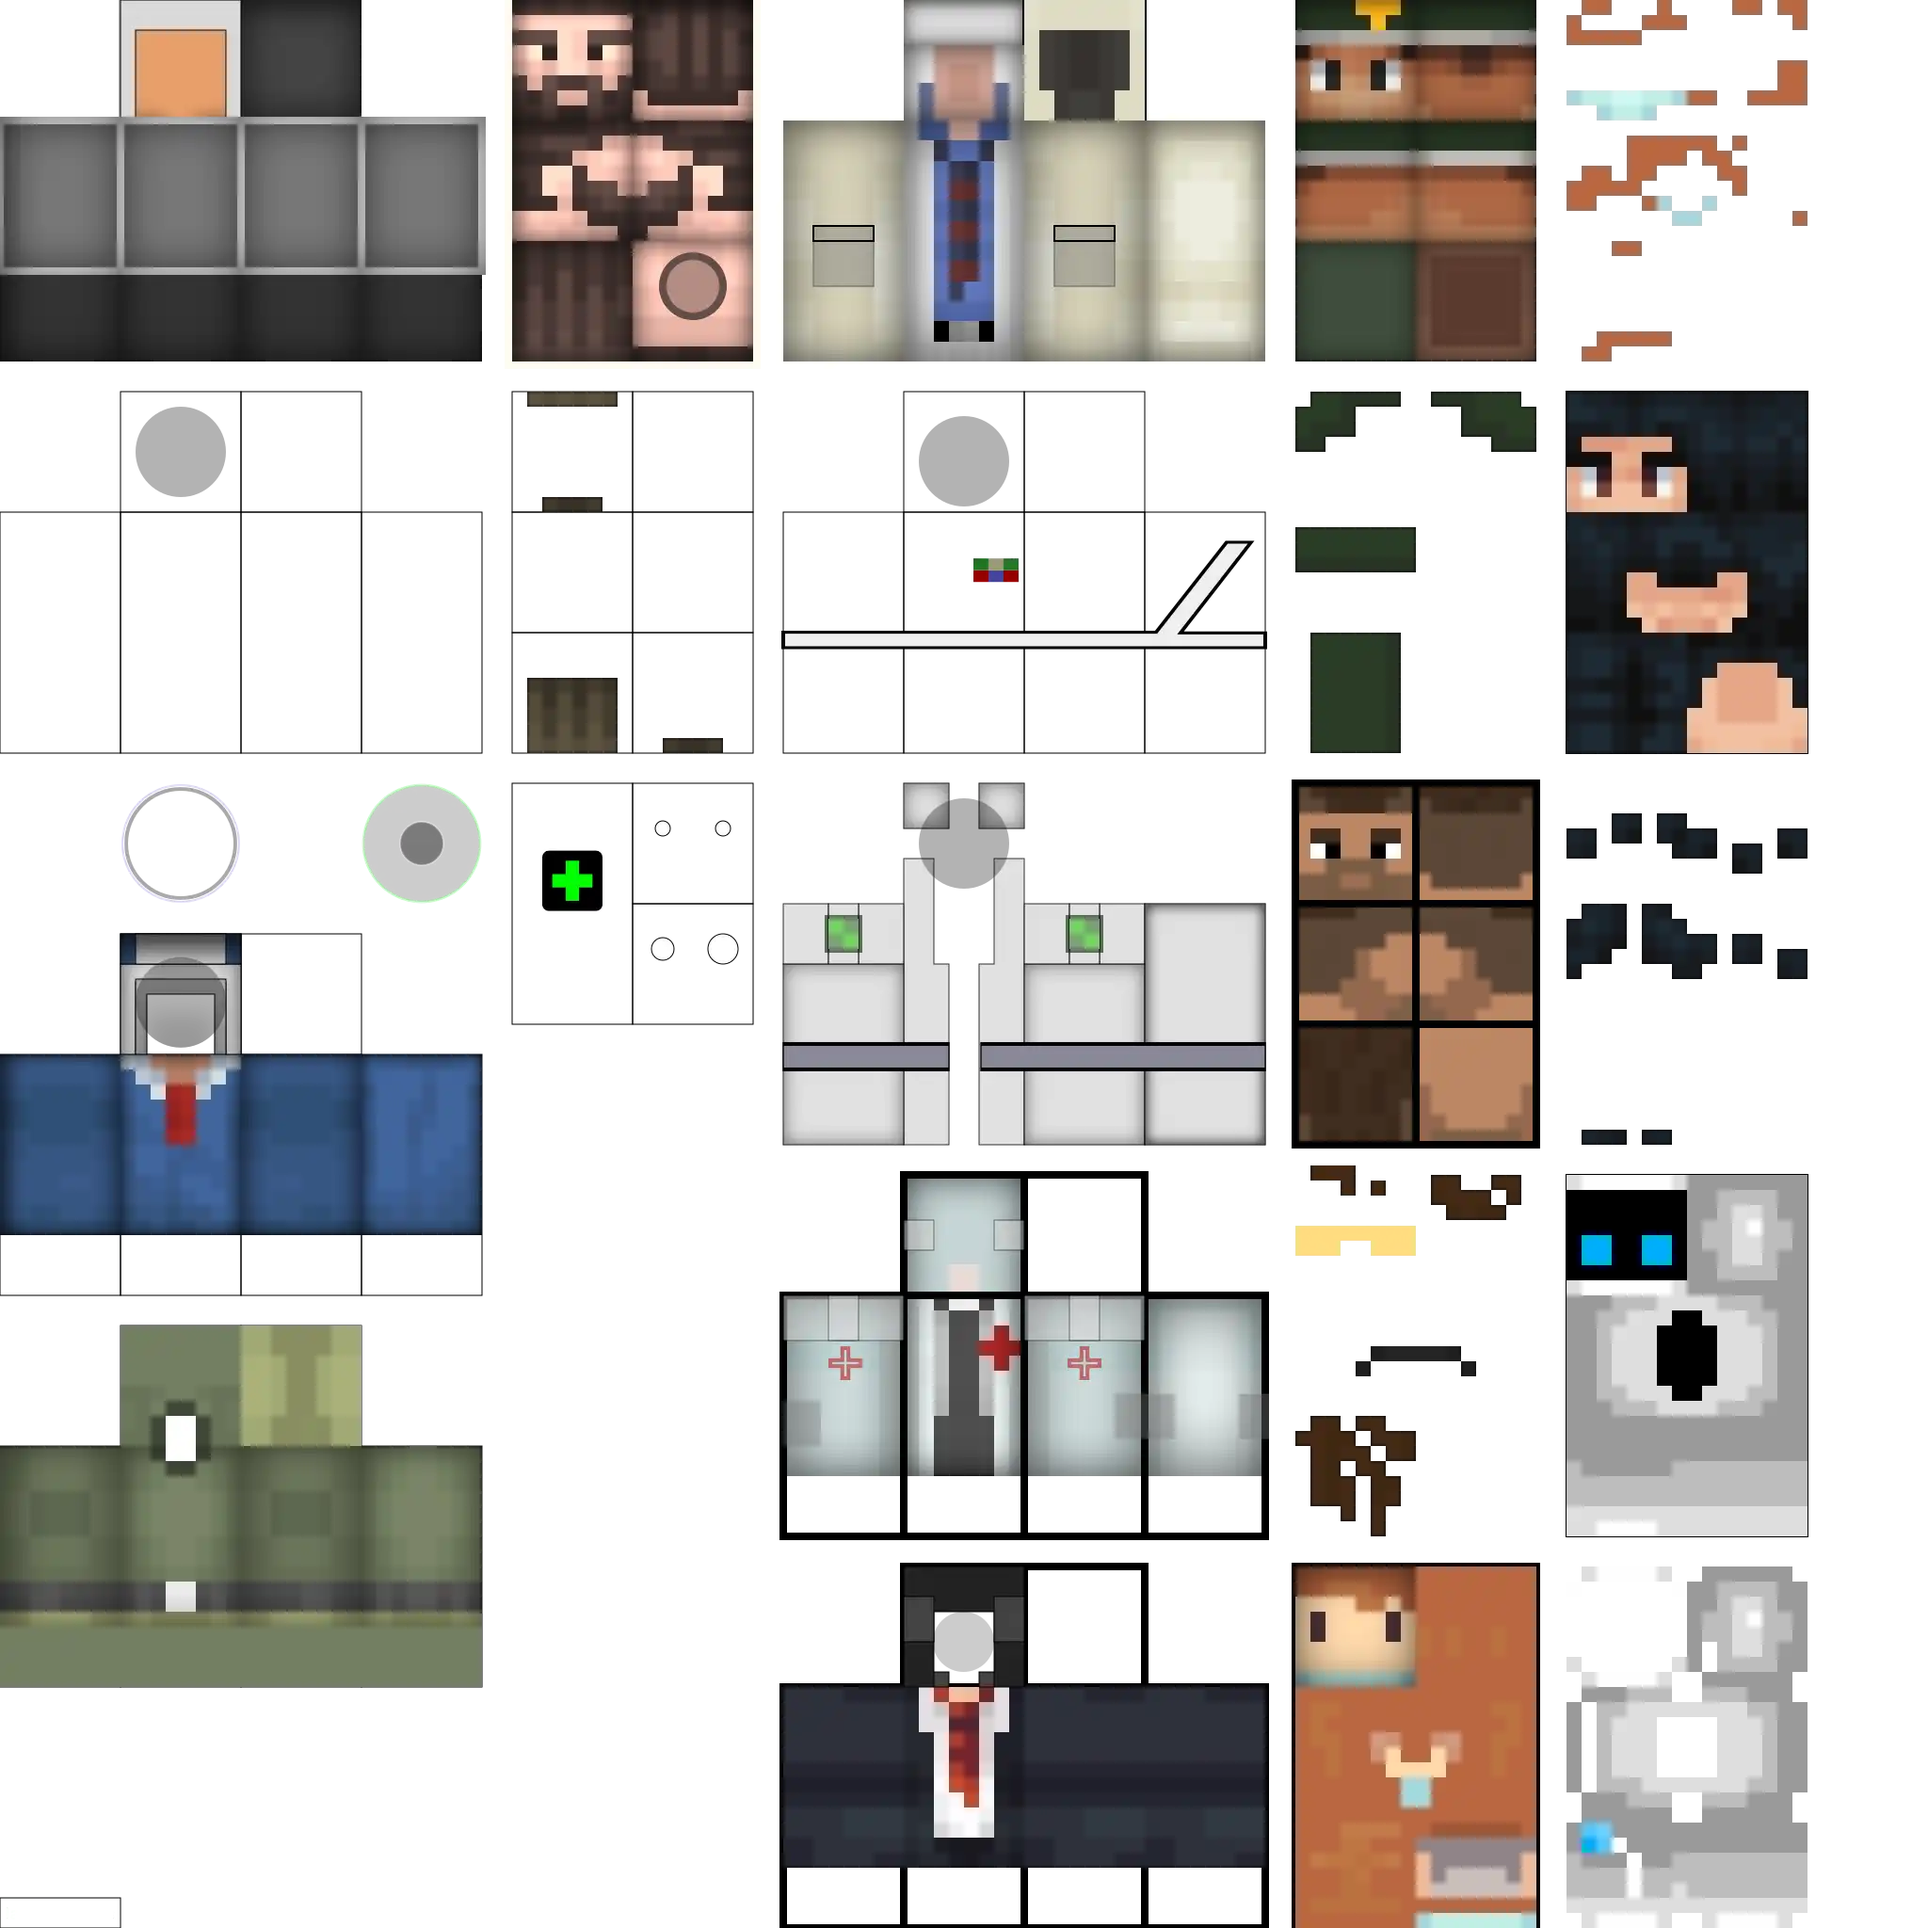
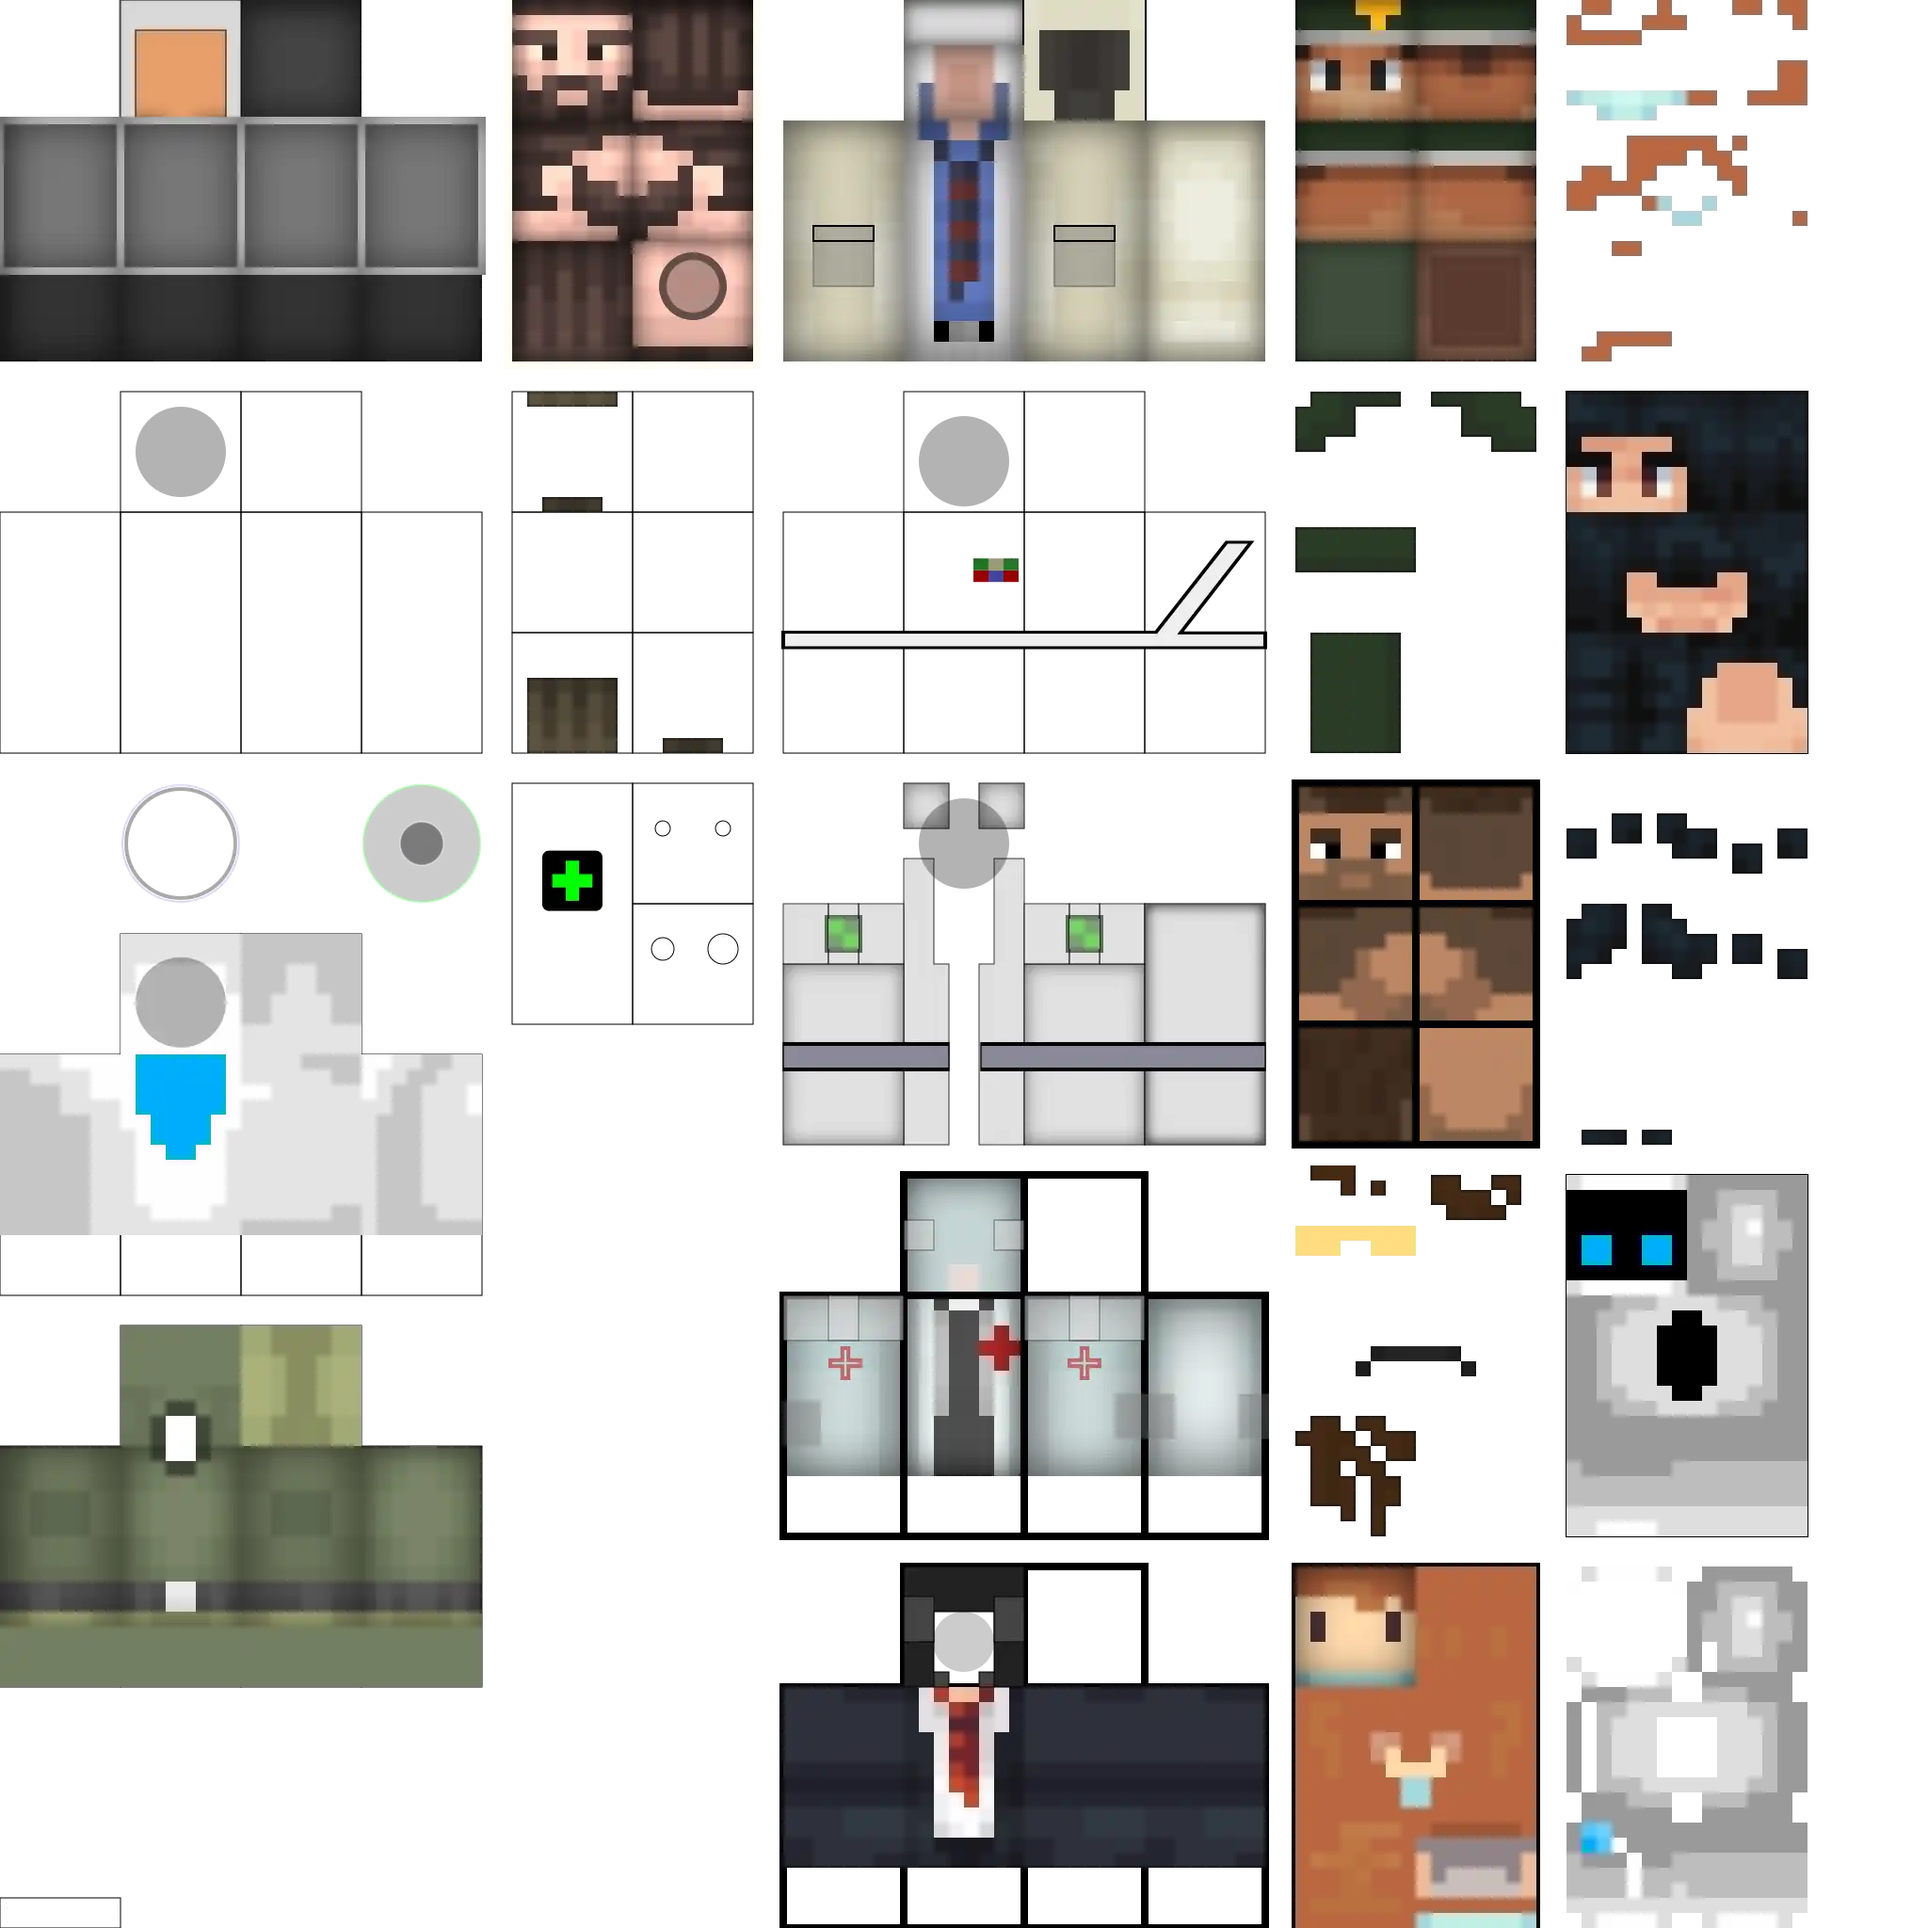
feat: replace police-0 body

Changed region(s): [[0.0, 0.4688, 0.25, 0.6562]]

diff --git a/docs/TODO.md b/docs/TODO.md
@@ -205,8 +205,9 @@
 
 - 🚧 replace police-0 -> robot-0
   - ✅ replace head, head-overlay
-  - replace body, body-overlay
-    - put body-overlay in second sheet (overwrite bare-0)
+  - ✅ replace body
+  - 🚧 replace body-overlay
+    - put in second sheet (overwrite bare-0)
   - rename police-0 -> robot-0
 
 - rename astronaut-0 -> robot-1
